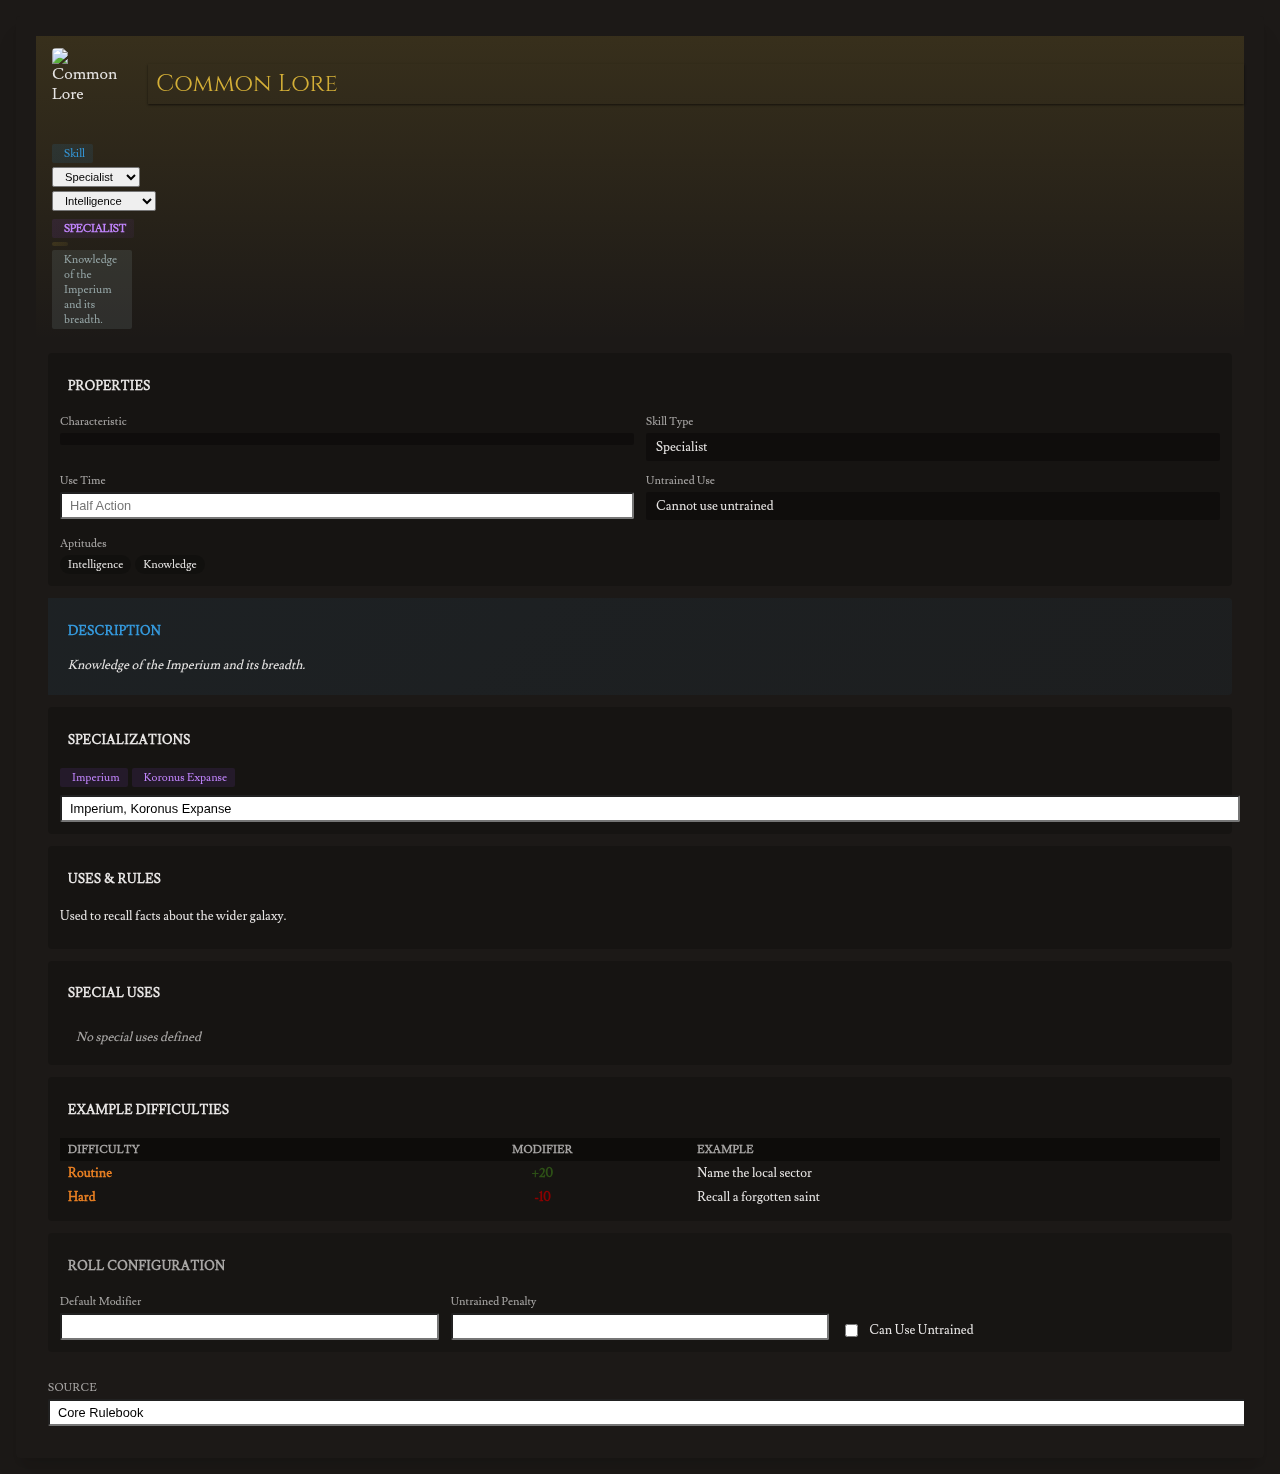
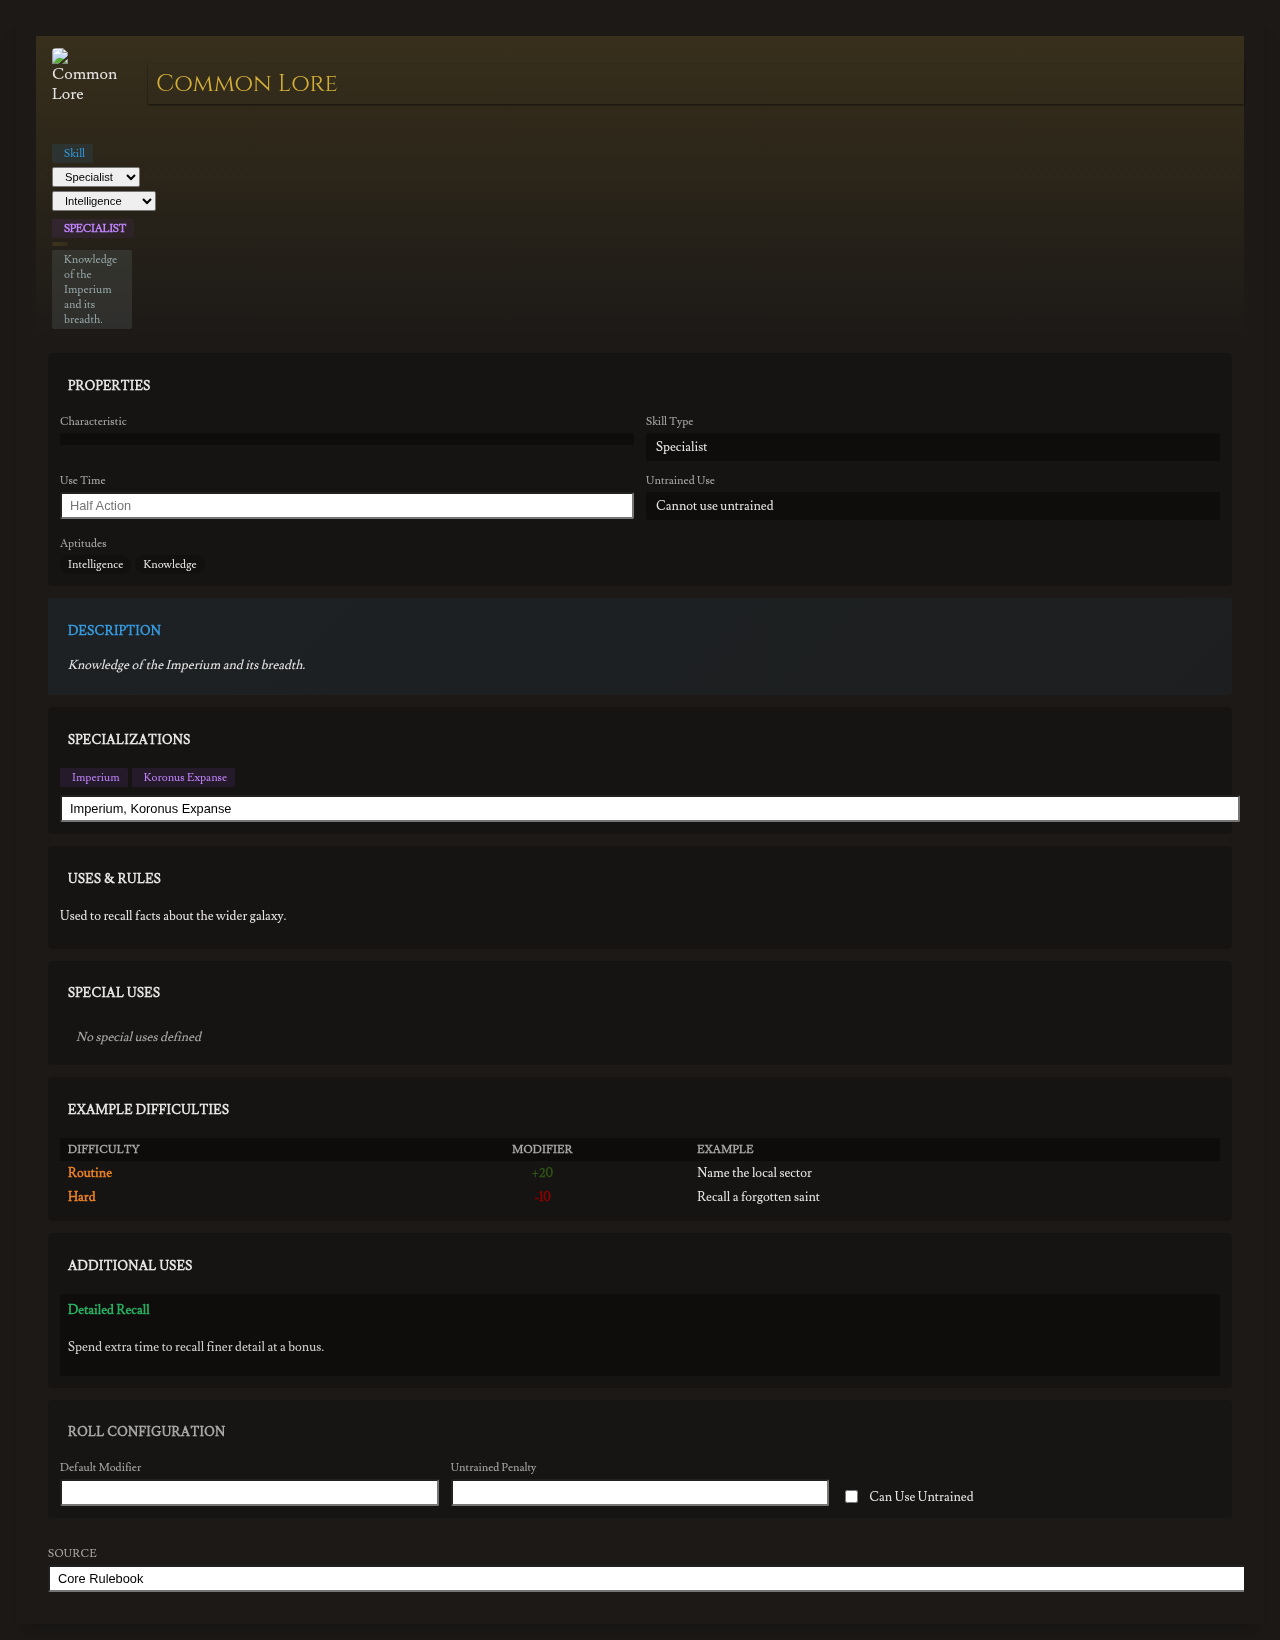
feat(skill): add exampleAdditionalUses field + specialization on exampleDifficulties
Adds two skill DataModel surfaces and their sheet rendering:

- `exampleAdditionalUses` — the RAW "Special Use" / additional-use prose
  each skill specifies in the rulebook, as a {name, description} list.
  Narrative and non-rollable (distinct from the rollable `specialUses`).
- `specialization` slot on `exampleDifficulties` rows, so a specialist
  skill's per-variant modifier tables (Navigate Surface/Stellar/Warp,
  Operate Surface/Aeronautica/Voidship) coexist in one array.

Skill sheet renders an editable Additional Uses section (add/delete
actions mirroring specialUses) and surfaces the specialization label in
the Example Difficulties table. New strings localized under
WH40K.AdditionalUse.* / WH40K.ExampleDifficulty.*. Adds skill.test.ts,
extends the skill-sheet story with additional-uses + specialist
difficulty-table coverage, and refreshes the skill-sheet visual baseline.

Schema + authoring/parsing convention is codified in the src/packs
content repo (CLAUDE.md + validate-schema.cjs), committed separately.

Refs JamesonRGrieve/wh40k-ttrpg-foundry-vtt-content#17

diff --git a/src/module/applications/item/skill-sheet.stories.ts b/src/module/applications/item/skill-sheet.stories.ts
@@ -10,7 +10,8 @@ interface SkillSystem {
     specializations: string[];
     descriptor: string;
     uses: string;
-    exampleDifficulties: Array<{ difficulty: string; modifier: number; example: string }>;
+    exampleDifficulties: Array<{ difficulty: string; modifier: number; example: string; specialization: string }>;
+    exampleAdditionalUses: Array<{ name: string; description: string }>;
 }
 interface SkillItem {
     name: string;
@@ -30,9 +31,10 @@ const baseSystem = (): SkillSystem => ({
     descriptor: 'Knowledge of the Imperium and its breadth.',
     uses: '<p>Used to recall facts about the wider galaxy.</p>',
     exampleDifficulties: [
-        { difficulty: 'Routine', modifier: 20, example: 'Name the local sector' },
-        { difficulty: 'Hard', modifier: -10, example: 'Recall a forgotten saint' },
+        { difficulty: 'Routine', modifier: 20, example: 'Name the local sector', specialization: '' },
+        { difficulty: 'Hard', modifier: -10, example: 'Recall a forgotten saint', specialization: '' },
     ],
+    exampleAdditionalUses: [{ name: 'Detailed Recall', description: '<p>Spend extra time to recall finer detail at a bonus.</p>' }],
 });
 
 const meta = {
@@ -65,5 +67,41 @@ export const RendersSelectAndName: Story = {
         const select = canvasElement.querySelector<HTMLSelectElement>('select[name="system.skillType"]');
         await expect(select).toBeTruthy();
         await expect(select?.value).toBe('specialist');
+    },
+};
+
+export const RendersAdditionalUses: Story = {
+    play: async ({ canvasElement }) => {
+        const view = within(canvasElement);
+        // The RAW "Additional Uses" prose renders its entry name and description.
+        await expect(view.getByText('Detailed Recall')).toBeTruthy();
+        await expect(view.getByText(/recall finer detail/i)).toBeTruthy();
+    },
+};
+
+// A specialist skill (Navigate) whose example-modifier rows are tagged by
+// specialization, exercising the per-variant grouping in the difficulties table.
+export const SpecialistDifficultyTables: Story = {
+    args: {
+        item: {
+            name: 'Navigate',
+            img: 'icons/svg/compass.svg',
+            system: {
+                ...baseSystem(),
+                skillType: 'specialist',
+                specializations: ['Surface', 'Stellar', 'Warp'],
+                exampleDifficulties: [
+                    { difficulty: 'Easy', modifier: 30, example: 'Familiar, well-travelled routes', specialization: 'Surface' },
+                    { difficulty: 'Very Hard', modifier: -30, example: 'Shifting sand dunes', specialization: 'Surface' },
+                    { difficulty: 'Easy', modifier: 30, example: 'A well-travelled route in a familiar system', specialization: 'Stellar' },
+                    { difficulty: 'Very Hard', modifier: -30, example: 'A binary star system with a black hole', specialization: 'Stellar' },
+                ],
+            },
+        },
+    },
+    play: async ({ canvasElement }) => {
+        const view = within(canvasElement);
+        await expect(view.getAllByText('Surface').length).toBeGreaterThan(0);
+        await expect(view.getAllByText('Stellar').length).toBeGreaterThan(0);
     },
 };

diff --git a/src/module/data/item/skill.test.ts b/src/module/data/item/skill.test.ts
@@ -1,0 +1,32 @@
+/**
+ * DataModel test for SkillData.
+ *
+ * Runs against happy-dom (vitest.config.ts), where Foundry globals such as
+ * `foundry.data.fields` aren't available — importing a V14 DataModel at module
+ * top touches them during defineSchema and throws. We defer the import into the
+ * test body so the failure is scoped and informative, matching the canonical
+ * pattern in `armour.test.ts`.
+ */
+import { describe, expect, it } from 'vitest';
+
+describe('SkillData', () => {
+    it('has a default SkillData symbol exported', async () => {
+        const mod = await import('./skill').catch((err) => {
+            const msg = err instanceof Error ? err.message : String(err);
+            console.warn(`skill DataModel could not be imported in this environment: ${msg}`);
+            return undefined;
+        });
+        // eslint-disable-next-line @vitest/no-conditional-in-test -- guard: early return when Foundry runtime unavailable, not a conditional assertion branch
+        if (mod === undefined) return;
+        expect(mod).toBeTruthy();
+        expect(mod.default).toBeTruthy();
+    });
+
+    // TODO: as Foundry test infrastructure expands, add assertions for:
+    //   - schema includes exampleDifficulties rows with a `specialization` slot
+    //     (default '') alongside difficulty / modifier / example
+    //   - schema includes exampleAdditionalUses rows ({ name, description })
+    //     defaulting to an empty array
+    //   - characteristicAbbr / skillTypeLabel derive the documented labels
+    //   - toChatSpecialUse(index) returns undefined for an out-of-range index
+});

diff --git a/src/module/applications/item/skill-sheet.ts b/src/module/applications/item/skill-sheet.ts
@@ -13,6 +13,7 @@ import defineSimpleItemSheet from './define-simple-item-sheet.ts';
  */
 interface SkillSheetItemSystem {
     specialUses: Array<{ name: string; description: string; modifier: number; difficulty: string }>;
+    exampleAdditionalUses: Array<{ name: string; description: string }>;
     toChatSpecialUse: (index: number) => Promise<void>;
 }
 
@@ -96,6 +97,23 @@ async function specialUseRoll(this: BaseItemSheet, _event: Event, target: HTMLEl
     }
 }
 
+async function additionalUseAdd(this: BaseItemSheet): Promise<void> {
+    const system = getSkillSheetItem(this).system;
+    const existing = Array.isArray(system.exampleAdditionalUses) ? system.exampleAdditionalUses : [];
+    const next = [...existing.map((entry) => ({ ...entry })), { name: '', description: '' }];
+    await this.item.update({ 'system.exampleAdditionalUses': next });
+}
+
+async function additionalUseDelete(this: BaseItemSheet, _event: Event, target: HTMLElement): Promise<void> {
+    const index = readIndex(target);
+    if (index === null) return;
+    const system = getSkillSheetItem(this).system;
+    const existing = Array.isArray(system.exampleAdditionalUses) ? system.exampleAdditionalUses : [];
+    if (index < 0 || index >= existing.length) return;
+    const next = existing.filter((_, i) => i !== index).map((entry) => ({ ...entry }));
+    await this.item.update({ 'system.exampleAdditionalUses': next });
+}
+
 /**
  * Sheet for skill items (used in compendiums).
  * Redesigned with Imperial Gothic theme and comprehensive layout.
@@ -117,6 +135,8 @@ const SkillSheet = defineSimpleItemSheet({
         specialUseDelete,
         specialUseChat,
         specialUseRoll,
+        additionalUseAdd,
+        additionalUseDelete,
     },
 });
 

diff --git a/src/module/data/item/skill.ts b/src/module/data/item/skill.ts
@@ -22,7 +22,8 @@ export default class SkillData extends ItemDataModel.mixin(DescriptionTemplate) 
     declare requirements: string;
     declare source: { book: string; page: string; custom: string };
     declare specialRules: string;
-    declare exampleDifficulties: Array<{ difficulty: string; modifier: number; example: string }>;
+    declare exampleDifficulties: Array<{ difficulty: string; modifier: number; example: string; specialization: string }>;
+    declare exampleAdditionalUses: Array<{ name: string; description: string }>;
     declare specialUses: Array<{ name: string; description: string; modifier: number; difficulty: string }>;
     declare useTime: string;
     declare rollConfig: { defaultModifier: number; canBeUsedUntrained: boolean; untrainedPenalty: number };
@@ -74,12 +75,26 @@ export default class SkillData extends ItemDataModel.mixin(DescriptionTemplate) 
             // Special rules for this skill
             specialRules: new fields.HTMLField({ required: false, blank: true }),
 
-            // Example difficulties
+            // Example difficulties — the book's "Example Modifiers" table for the
+            // skill. `specialization` tags a row to a specialist skill's variant
+            // (e.g. Navigate "Surface"/"Stellar"/"Warp"); blank for basic skills.
             exampleDifficulties: new fields.ArrayField(
                 new fields.SchemaField({
                     difficulty: new fields.StringField({ required: true }),
                     modifier: new fields.NumberField({ required: true, integer: true }),
                     example: new fields.StringField({ required: true }),
+                    specialization: new fields.StringField({ required: false, blank: true, initial: '' }),
+                }),
+                { required: true, initial: [] },
+            ),
+
+            // Additional uses — the RAW "Special Use" / additional-use prose each
+            // skill specifies in the rulebook. Narrative, non-rollable (distinct
+            // from the structured, rollable `specialUses` below).
+            exampleAdditionalUses: new fields.ArrayField(
+                new fields.SchemaField({
+                    name: new fields.StringField({ required: true, blank: true, initial: '' }),
+                    description: new fields.HTMLField({ required: false, blank: true, initial: '' }),
                 }),
                 { required: true, initial: [] },
             ),

diff --git a/src/module/types/i18n-keys.d.ts b/src/module/types/i18n-keys.d.ts
@@ -161,6 +161,12 @@ export type I18nKey =
     | 'WH40K.Actor.ConvertSystem.Target'
     | 'WH40K.Actor.ConvertSystem.Title'
     | 'WH40K.Actor.ConvertSystem.Warning'
+    | 'WH40K.AdditionalUse.Add'
+    | 'WH40K.AdditionalUse.Delete'
+    | 'WH40K.AdditionalUse.DescriptionPlaceholder'
+    | 'WH40K.AdditionalUse.Header'
+    | 'WH40K.AdditionalUse.NamePlaceholder'
+    | 'WH40K.AdditionalUse.None'
     | 'WH40K.Advancement.CannotAfford'
     | 'WH40K.Advancement.Error.CannotAfford'
     | 'WH40K.Advancement.Error.InsufficientXP'
@@ -1267,6 +1273,12 @@ export type I18nKey =
     | 'WH40K.Equipment.StowInBackpack'
     | 'WH40K.Equipment.Unequip'
     | 'WH40K.EquipmentGranted'
+    | 'WH40K.ExampleDifficulty.Difficulty'
+    | 'WH40K.ExampleDifficulty.Example'
+    | 'WH40K.ExampleDifficulty.Header'
+    | 'WH40K.ExampleDifficulty.Modifier'
+    | 'WH40K.ExampleDifficulty.None'
+    | 'WH40K.ExampleDifficulty.Specialization'
     | 'WH40K.ExtendedTest.Complete'
     | 'WH40K.ExtendedTest.FailureCount'
     | 'WH40K.ExtendedTest.InProgress'